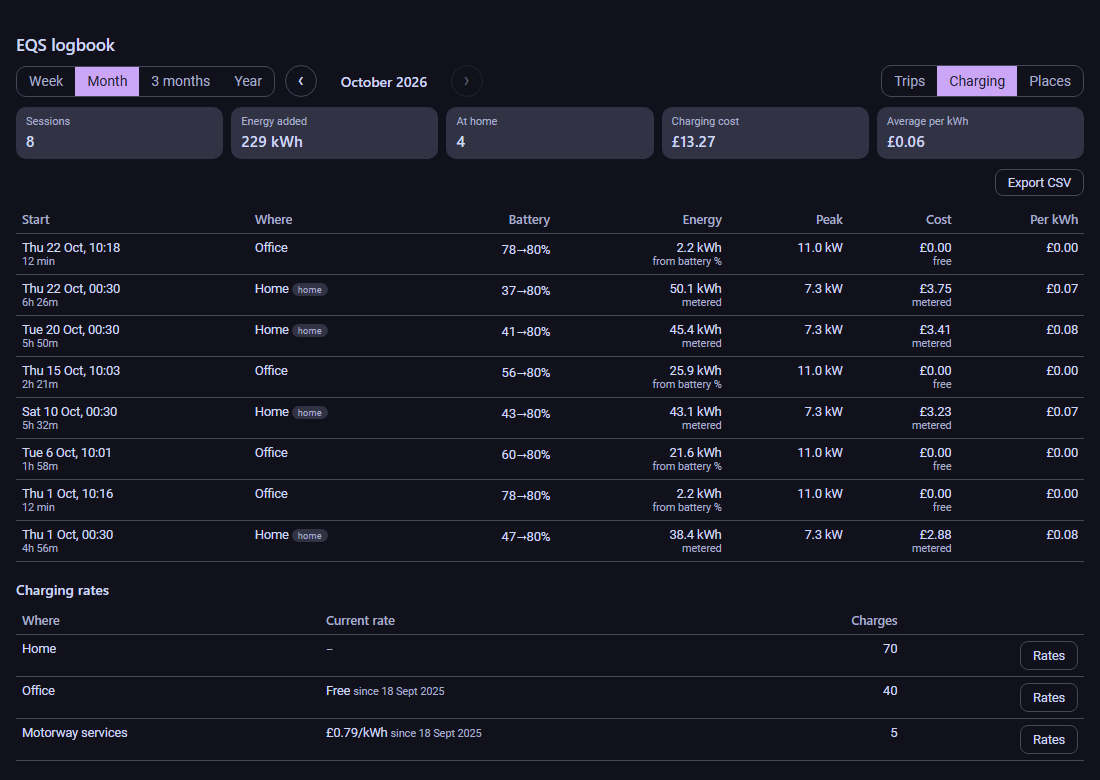
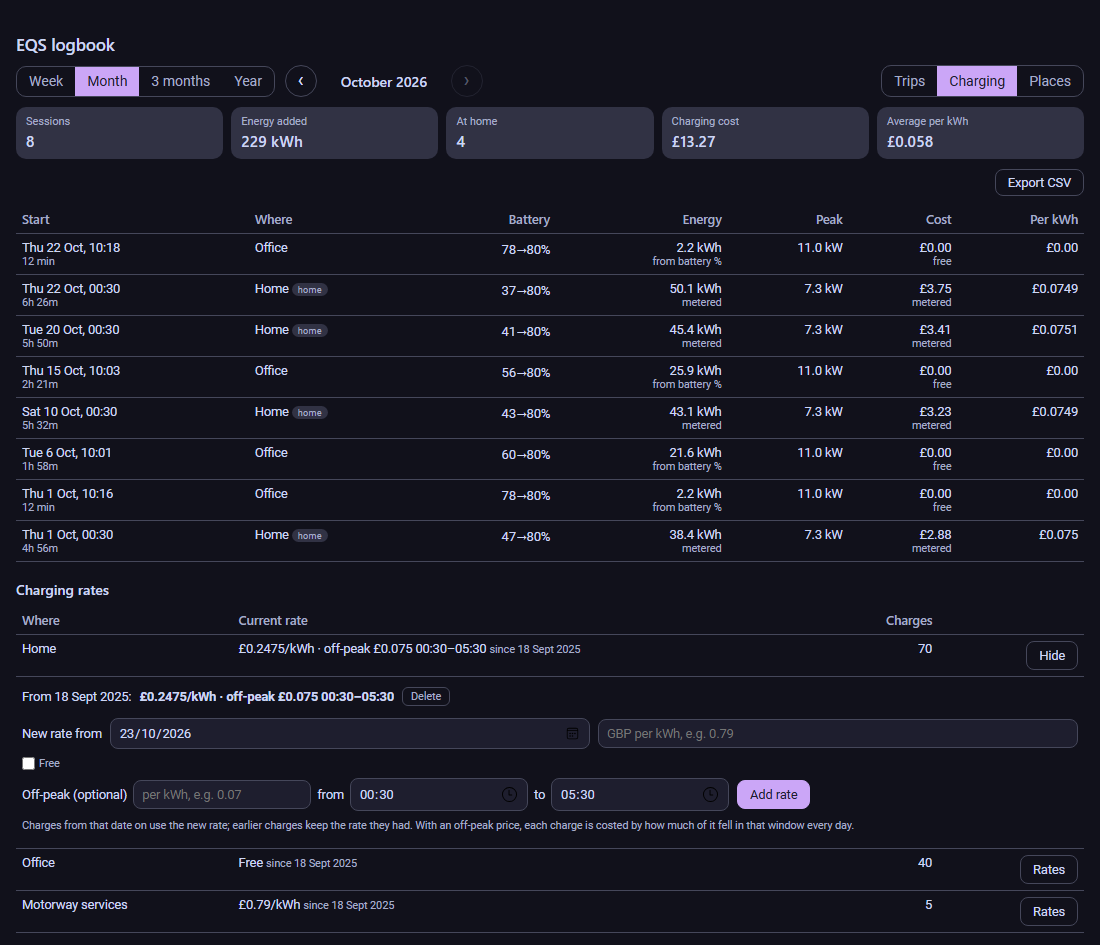
0.20.3: docs and setup text for own rates, off-peak and currency
README highlights and setup mention own rates (off-peak) and currency; new
Charging screenshot (demo data) with an off-peak Home rate; the setup form's
help text no longer describes the old meter-and-price-only costing.

diff --git a/custom_components/mb_logbook/frontend/mb-logbook-card.js b/custom_components/mb_logbook/frontend/mb-logbook-card.js
@@ -1192,7 +1192,7 @@ MBLogbookCard.css = `
   #mapbox ha-map { height: 100%; display: block; }
 `;
 
-const CARD_VERSION = "0.20.2";
+const CARD_VERSION = "0.20.3";
 
 if (!customElements.get("mb-logbook-card")) {
   customElements.define("mb-logbook-card", MBLogbookCard);

diff --git a/custom_components/mb_logbook/const.py b/custom_components/mb_logbook/const.py
@@ -3,7 +3,7 @@
 from __future__ import annotations
 
 DOMAIN = "mb_logbook"
-VERSION = "0.20.2"
+VERSION = "0.20.3"
 
 DB_FILENAME = "mb_logbook.db"
 STORAGE_VERSION = 1

diff --git a/README.md b/README.md
@@ -32,7 +32,7 @@ It builds on the [MercedesME 2020 (mbapi2020)](https://github.com/ReneNulschDE/m
 |---|---|
 | 🚗 **Trips** | Start and end, distance, battery used, kWh, efficiency, outside temperature and the route on a map |
 | 🅿 **Parked drain** | What the car lost between trips, and an idle-drain sensor in % per day |
-| ⚡ **Charging** | Every session with kWh, peak power and cost: metered at home, a fixed rate (or free) anywhere else, with rate history |
+| ⚡ **Charging** | Every session with kWh, peak power and cost, from your own rates per place (with an optional off-peak window) or a live price sensor; rate history keeps old costs right |
 | 🏷 **Mileage claims** | Business / Commute / Personal labels, a default label per place, mileage by label and CSV export |
 | 📍 **Your own places** | Name any stop with a draggable, resizable circle; the name reaches back through all your history |
 | 🔋 **Battery health** | The range the car predicts at 100%, month by month |
@@ -51,7 +51,7 @@ It builds on the [MercedesME 2020 (mbapi2020)](https://github.com/ReneNulschDE/m
 
 <img src="https://raw.githubusercontent.com/david40i9/ha-mercedes-ev-logbook/main/docs/images/name-place.png" alt="Naming a place: map with a resizable circle and suggested business names">
 
-**Charging:** sessions with energy, peak power and cost, and charging rates per place with their history.
+**Charging:** sessions with energy, peak power and cost, and charging rates per place (here Home with an off-peak window) with their history.
 
 <img src="https://raw.githubusercontent.com/david40i9/ha-mercedes-ev-logbook/main/docs/images/charging.png" alt="Charging tab">
 
@@ -86,7 +86,7 @@ Pick the car from the Mercedes integration and its sensors are filled in for you
 | EQS saloon / SUV | 107.8 – 108.4 |
 | EQV | 90 |
 
-Check your model year's spec sheet; capacities changed between versions. Everything can be changed later with **Configure**.
+Check your model year's spec sheet; capacities changed between versions. Choose the **currency** for charging costs (it starts as Home Assistant's). Everything can be changed later with **Configure**.
 
 ### What it uses
 
@@ -97,7 +97,7 @@ Check your model year's spec sheet; capacities changed between versions. Everyth
 | Trip distance counter | Optional | 0.1-mile/km trip distances when the odometer only reports whole units |
 | Charging active, charging power | Optional | Charging sessions and peak power |
 | Electricity price sensor | Optional | Live price for home charges (per kWh or MWh, pounds, pence, euros, cents, öre…; converted automatically). Without one, home charges use the rates you set in the Charging tab |
-| Home charger energy meter | Optional | The most accurate home energy and cost (any total-kWh sensor: Zappi, Wallbox, smart plug…) |
+| Home charger energy meter | Optional | The most accurate home energy (any total-kWh sensor: Zappi, Wallbox, smart plug…), costed at your Home rate or live price |
 | Outside temperature | Optional | Defaults to Home Assistant's weather for your home; or pick any temperature sensor |
 
 Any car that provides these entities works, not only Mercedes. Pick them yourself in the setup form.
